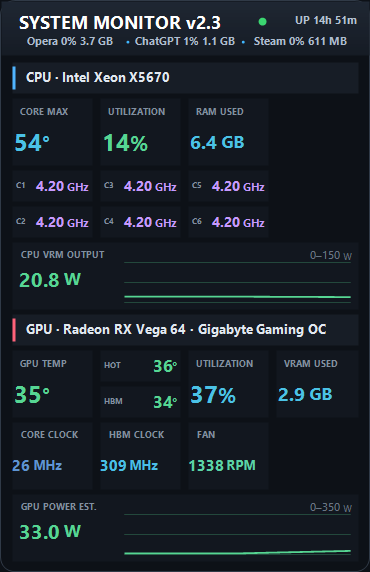
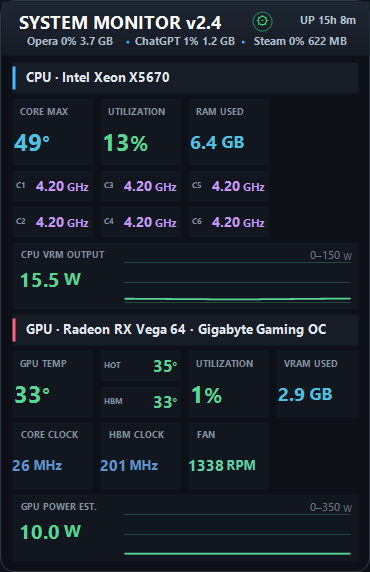
Release SystemMonitorWidget v2.4

diff --git a/src/WidgetFormV2.cs b/src/WidgetFormV2.cs
@@ -26,7 +26,8 @@ namespace VegaDesktopWidget
         private readonly WidgetComponents components = new WidgetComponents();
         private double ramUsed, ramTotal; private bool ramAvailable;
         private string status = "Starting";
-        private bool dragging; private Point dragStart; private ContextMenuStrip menu; private ToolStripMenuItem topmostItem, scaleItem, gridItem, processItem;
+        private ContextMenuStrip menu; private ToolStripMenuItem topmostItem, scaleItem, gridItem, processItem;
+        private const int WmNcHitTest = 0x0084, HtClient = 1, HtTransparent = -1;
 
         private float UiScale { get { if (config.UiScaleMode == 75) return 0.75f; if (config.UiScaleMode == 67) return 2f / 3f; if (config.UiScaleMode == 50) return 0.5f; if (config.UiScaleMode == 33) return 1f / 3f; if (config.UiScaleMode == 25) return 0.25f; return 1f; } }
         private int CanvasWidth { get { return config.Width; } }
@@ -40,7 +41,7 @@ namespace VegaDesktopWidget
             TopMost = config.AlwaysOnTop; Opacity = config.OpacityPercent / 100.0;
             BuildMenu(); timer.Interval = config.RefreshMilliseconds; timer.Tick += delegate { RefreshSensors(); }; timer.Start();
             Shown += delegate { RefreshSensors(); }; FormClosing += delegate { config.Left = Left; config.Top = Top; config.Save(); };
-            MouseDown += DragMouseDown; MouseMove += DragMouseMove; MouseUp += DragMouseUp; DoubleClick += delegate { ShowSettings(); };
+            MouseDown += GearMouseDown;
             if (config.LaunchHWiNFO) LaunchHWiNFO();
         }
 
@@ -53,7 +54,7 @@ namespace VegaDesktopWidget
             scaleItem = new ToolStripMenuItem("UI scale"); AddScaleMenuItem("100% (1/1)", 100); AddScaleMenuItem("75% (3/4)", 75); AddScaleMenuItem("67% (2/3)", 67); AddScaleMenuItem("50% (1/2)", 50); AddScaleMenuItem("33% (1/3)", 33); AddScaleMenuItem("25% (1/4)", 25); UpdateScaleMenu(); menu.Items.Add(scaleItem);
             processItem = new ToolStripMenuItem("Header processes"); AddProcessMenuItem("No", 0); AddProcessMenuItem("Top CPU", 1); AddProcessMenuItem("Top RAM", 2); UpdateProcessMenu(); menu.Items.Add(processItem);
             menu.Items.Add("Start HWiNFO", null, delegate { LaunchHWiNFO(); }); menu.Items.Add("Reset position", null, delegate { Location = new Point(60, 60); });
-            menu.Items.Add(new ToolStripSeparator()); menu.Items.Add("Exit", null, delegate { Close(); }); ContextMenuStrip = menu;
+            menu.Items.Add(new ToolStripSeparator()); menu.Items.Add("Exit", null, delegate { Close(); });
         }
 
         private void AddGridMenuItem(string text, int columns) { ToolStripMenuItem item = new ToolStripMenuItem(text); item.Tag = columns; item.Click += delegate { SetGridColumns(columns); }; gridItem.DropDownItems.Add(item); }
@@ -107,7 +108,7 @@ namespace VegaDesktopWidget
             base.OnPaint(e); Graphics g = e.Graphics; g.SmoothingMode = SmoothingMode.AntiAlias; g.TextRenderingHint = System.Drawing.Text.TextRenderingHint.ClearTypeGridFit; g.ScaleTransform(UiScale, UiScale);
             Rectangle outer = new Rectangle(0, 0, CanvasWidth - 1, LogicalHeight - 1);
             using (GraphicsPath path = Rounded(outer, 14)) { using (SolidBrush b = new SolidBrush(Color.FromArgb(13, 17, 23))) g.FillPath(b, path); using (Pen p = new Pen(Color.FromArgb(48, 58, 71))) g.DrawPath(p, path); }
-            DrawHeader(g); DrawDashboard(g);
+            DrawHeader(g); DrawDashboard(g); g.ResetTransform(); DrawGearButton(g);
             using (GraphicsPath physicalPath = Rounded(new Rectangle(0, 0, Width - 1, Height - 1), Math.Max(2, (int)Math.Round(14 * UiScale)))) Region = new Region(physicalPath);
         }
 
@@ -115,7 +116,7 @@ namespace VegaDesktopWidget
         {
             using (LinearGradientBrush b = new LinearGradientBrush(new Rectangle(1, 1, CanvasWidth - 2, 54), Color.FromArgb(31, 39, 51), Color.FromArgb(21, 27, 36), 90f)) g.FillRectangle(b, 1, 1, CanvasWidth - 2, 54);
             DrawTextFit(g, config.HeaderTitle, 13.5f, 9f, FontStyle.Bold, Color.White, new RectangleF(16, 10, CanvasWidth - 150, 24), StringAlignment.Near);
-            bool live = readings.Count > 0; using (SolidBrush dot = new SolidBrush(live ? Color.FromArgb(59, 214, 113) : Color.FromArgb(255, 184, 77))) g.FillEllipse(dot, CanvasWidth - 112, 17, 8, 8);
+
             DrawText(g, FormatSystemUptime(), 8, FontStyle.Bold, Color.FromArgb(180, 194, 210), new RectangleF(CanvasWidth - 98, 12, 86, 18), StringAlignment.Far);
             DrawProcessStrip(g, new RectangleF(12, 34, CanvasWidth - 24, 14));
         }
@@ -164,6 +165,7 @@ namespace VegaDesktopWidget
                 Rectangle r = ItemRectangle(item);
                 if (r.Width <= 0 || r.Height <= 0) continue;
                 if (item.BoxType == DashboardBoxType.Section) { DrawSection(g, r, item); continue; }
+                float valueFontScale = Math.Max(0.6f, Math.Min(1.6f, item.ValueFontPercent / 100f));
                 SensorReading reading = Resolve(item); double? raw = ItemValue(item);
                 Color color = raw.HasValue ? item.ColorFor(raw.Value) : Color.FromArgb(85, 96, 110);
                 string value = item.SensorKey == "__RAM_USED__" ? (ramAvailable ? SensorValueFormatter.FormatValue(ramUsed, "GB", item.ValueDecimals, item.ShowUnit) : "—") : SensorValueFormatter.FormatReading(reading, item.ValueDecimals, item.ShowUnit);
@@ -172,16 +174,16 @@ namespace VegaDesktopWidget
                 {
                     MetricExtrema range = GetExtrema(item.Id);
                     string max = FormatExtrema(item, reading, range, true), min = FormatExtrema(item, reading, range, false);
-                    components.DrawBigMetric(g, r, label, value, max, min, color, item.ShowExtrema);
+                    components.DrawBigMetric(g, r, label, value, max, min, color, item.ShowExtrema, valueFontScale);
                 }
-                else if (item.BoxType == DashboardBoxType.Horizontal) components.DrawHorizontalSpec(g, r, label, value, color);
-                else if (item.BoxType == DashboardBoxType.Vertical) components.DrawVerticalSpec(g, r, label, value, color);
+                else if (item.BoxType == DashboardBoxType.Horizontal) components.DrawHorizontalSpec(g, r, label, value, color, valueFontScale);
+                else if (item.BoxType == DashboardBoxType.Vertical) components.DrawVerticalSpec(g, r, label, value, color, valueFontScale);
                 else if (item.BoxType == DashboardBoxType.Graph)
                 {
                     List<double> values = null; if (config.ShowGraphs) history.TryGetValue(item.Id, out values);
                     string unit = !item.ShowUnit || reading == null || reading.Unit == null ? "" : reading.Unit.Trim();
                     string range = FormatRange(item.GraphMinimum, item.GraphMaximum, unit);
-                    components.DrawGraphBox(g, r, label, value, range, color, values, item.GraphMinimum, item.GraphMaximum);
+                    components.DrawGraphBox(g, r, label, value, range, color, values, item.GraphMinimum, item.GraphMaximum, valueFontScale);
                 }
             }
         }
@@ -227,9 +229,37 @@ namespace VegaDesktopWidget
             { sf.Alignment = align; sf.LineAlignment = StringAlignment.Center; sf.Trimming = StringTrimming.None; sf.FormatFlags = StringFormatFlags.NoWrap; g.DrawString(text ?? "", f, b, area, sf); }
         }
         private static GraphicsPath Rounded(Rectangle r, int radius) { GraphicsPath p = new GraphicsPath(); int d = radius * 2; p.AddArc(r.X, r.Y, d, d, 180, 90); p.AddArc(r.Right - d, r.Y, d, d, 270, 90); p.AddArc(r.Right - d, r.Bottom - d, d, d, 0, 90); p.AddArc(r.X, r.Bottom - d, d, d, 90, 90); p.CloseFigure(); return p; }
-        private void DragMouseDown(object sender, MouseEventArgs e) { if (e.Button == MouseButtons.Left) { dragging = true; dragStart = e.Location; } }
-        private void DragMouseMove(object sender, MouseEventArgs e) { if (dragging) Location = new Point(Left + e.X - dragStart.X, Top + e.Y - dragStart.Y); }
-        private void DragMouseUp(object sender, MouseEventArgs e) { if (!dragging) return; dragging = false; config.Left = Left; config.Top = Top; config.Save(); }
+        private Rectangle GearBounds
+        {
+            get
+            {
+                int size = Math.Max(14, (int)Math.Round(20 * UiScale));
+                int centerX = (int)Math.Round((CanvasWidth - 108) * UiScale), centerY = Math.Max(size / 2 + 2, (int)Math.Round(21 * UiScale));
+                return new Rectangle(centerX - size / 2, centerY - size / 2, size, size);
+            }
+        }
+        private void DrawGearButton(Graphics g)
+        {
+            Rectangle r = GearBounds; bool live = readings.Count > 0; Color accent = live ? Color.FromArgb(59, 214, 113) : Color.FromArgb(255, 184, 77);
+            using (SolidBrush background = new SolidBrush(Color.FromArgb(175, 23, 30, 39))) g.FillEllipse(background, r);
+            using (Pen border = new Pen(Color.FromArgb(155, accent), 1f)) g.DrawEllipse(border, r.X + 0.5f, r.Y + 0.5f, r.Width - 1f, r.Height - 1f);
+            using (Font font = new Font("Segoe UI Symbol", Math.Max(8f, 11f * UiScale), FontStyle.Regular, GraphicsUnit.Point))
+            using (SolidBrush brush = new SolidBrush(accent))
+            using (StringFormat format = new StringFormat()) { format.Alignment = StringAlignment.Center; format.LineAlignment = StringAlignment.Center; g.DrawString("\u2699", font, brush, r, format); }
+        }
+        private void GearMouseDown(object sender, MouseEventArgs e)
+        {
+            if ((e.Button == MouseButtons.Left || e.Button == MouseButtons.Right) && GearBounds.Contains(e.Location)) menu.Show(this, new Point(GearBounds.Left, GearBounds.Bottom + 2));
+        }
+        protected override void WndProc(ref Message m)
+        {
+            if (m.Msg == WmNcHitTest)
+            {
+                int packed = unchecked((int)(long)m.LParam); Point screen = new Point((short)(packed & 0xffff), (short)((packed >> 16) & 0xffff)); Point client = PointToClient(screen);
+                m.Result = GearBounds.Contains(client) ? (IntPtr)HtClient : (IntPtr)HtTransparent; return;
+            }
+            base.WndProc(ref m);
+        }
         private Point ClampLocation(Point p) { Rectangle work = Screen.PrimaryScreen.WorkingArea; return new Point(Math.Max(work.Left, Math.Min(work.Right - Width, p.X)), Math.Max(work.Top, Math.Min(work.Bottom - Height, p.Y))); }
         private void ShowSettings() { using (SettingsForm form = new SettingsForm(config, readings)) { if (form.ShowDialog(this) != DialogResult.OK) return; config = form.Result; ApplyWidgetSize(); Location = ClampLocation(Location); TopMost = config.AlwaysOnTop; Opacity = config.OpacityPercent / 100.0; timer.Interval = config.RefreshMilliseconds; topmostItem.Checked = config.AlwaysOnTop; UpdateGridMenu(); UpdateScaleMenu(); config.Save(); RefreshSensors(); } }
         private void LaunchHWiNFO() { try { if (Process.GetProcessesByName("HWiNFO64").Length > 0) return; string path = @"C:\Program Files\HWiNFO64\HWiNFO64.EXE"; if (File.Exists(path)) Process.Start(path); else { status = "HWiNFO64 was not found"; Invalidate(); } } catch { status = "Could not start HWiNFO"; Invalidate(); } }

diff --git a/src/DashboardEditor.cs b/src/DashboardEditor.cs
@@ -237,7 +237,7 @@ namespace VegaDesktopWidget
     {
         private readonly WidgetConfig config; private readonly List<SensorReading> readings; private readonly List<SensorChoice> choices;
         private readonly DashboardCanvas canvas = new DashboardCanvas(); private readonly SplitContainer split = new SplitContainer(); private readonly ComboBox layoutChoice = new ComboBox(), sensorChoice = new ComboBox(), typeChoice = new ComboBox();
-        private readonly TextBox displayName = new TextBox(); private readonly NumericUpDown dashboardRows = Number(4, 30, 14), row = Number(1, 30, 1), column = Number(1, 4, 1), columnSpan = Number(1, 4, 1), graphMin = Number(-100000, 100000, 0), graphMax = Number(-100000, 100000, 100);
+        private readonly TextBox displayName = new TextBox(); private readonly NumericUpDown dashboardRows = Number(4, 30, 14), row = Number(1, 30, 1), column = Number(1, 4, 1), columnSpan = Number(1, 4, 1), graphMin = Number(-100000, 100000, 0), graphMax = Number(-100000, 100000, 100), valueFontPercent = Number(60, 160, 100);
         private readonly CheckBox extrema = new CheckBox(), showUnit = new CheckBox(); private readonly NumericUpDown[] thresholds = new NumericUpDown[4]; private readonly Button[] colorButtons = new Button[5];
         private readonly ComboBox valueDecimals = new ComboBox(); private readonly Label formatPreview = new Label(), placementStatus = new Label(); private bool loading; private int editorColumns = 4;
 
@@ -283,6 +283,7 @@ namespace VegaDesktopWidget
             typeChoice.DropDownStyle = ComboBoxStyle.DropDownList; typeChoice.Items.AddRange(new object[] { "Big metric", "Horizontal spec", "Vertical spec", "Graph", "Section heading" }); AddRow(table, "Box type", typeChoice);
             Heading(table, "VALUE FORMAT"); valueDecimals.DropDownStyle = ComboBoxStyle.DropDownList; valueDecimals.Items.AddRange(new object[] { "Automatic", "0 decimals", "1 decimal", "2 decimals" }); AddRow(table, "Decimals", valueDecimals);
             showUnit.Text = "Show sensor unit"; showUnit.AutoSize = true; AddRow(table, "Unit", showUnit);
+            valueFontPercent.Increment = 5; AddRow(table, "Value font (%)", valueFontPercent);
             formatPreview.AutoSize = true; formatPreview.Font = new Font("Segoe UI", 10f, FontStyle.Bold); formatPreview.ForeColor = Color.FromArgb(45, 112, 190); AddRow(table, "Preview", formatPreview);
             Heading(table, "POSITION & SIZE"); AddRow(table, "Column", column); AddRow(table, "Half-row", row); AddRow(table, "Width (cells)", columnSpan);
             extrema.Text = "Show minimum / maximum"; extrema.AutoSize = true; AddRow(table, "", extrema);
@@ -301,7 +302,7 @@ namespace VegaDesktopWidget
             displayName.TextChanged += delegate { PropertyChanged(); }; sensorChoice.SelectedIndexChanged += delegate { PropertyChanged(); }; typeChoice.SelectedIndexChanged += delegate { TypeChanged(); };
             row.ValueChanged += delegate { PositionChanged(); }; column.ValueChanged += delegate { PositionChanged(); }; columnSpan.ValueChanged += delegate { PositionChanged(); };
             extrema.CheckedChanged += delegate { PropertyChanged(); }; graphMin.ValueChanged += delegate { PropertyChanged(); }; graphMax.ValueChanged += delegate { PropertyChanged(); };
-            valueDecimals.SelectedIndexChanged += delegate { PropertyChanged(); }; showUnit.CheckedChanged += delegate { PropertyChanged(); };
+            valueDecimals.SelectedIndexChanged += delegate { PropertyChanged(); }; showUnit.CheckedChanged += delegate { PropertyChanged(); }; valueFontPercent.ValueChanged += delegate { PropertyChanged(); };
             return panel;
         }
 
@@ -352,13 +353,13 @@ namespace VegaDesktopWidget
         private void LoadSelected()
         {
             loading = true; DashboardItem item = canvas.SelectedItem; bool enabled = item != null;
-            displayName.Enabled = sensorChoice.Enabled = typeChoice.Enabled = row.Enabled = column.Enabled = columnSpan.Enabled = extrema.Enabled = graphMin.Enabled = graphMax.Enabled = valueDecimals.Enabled = showUnit.Enabled = enabled;
+            displayName.Enabled = sensorChoice.Enabled = typeChoice.Enabled = row.Enabled = column.Enabled = columnSpan.Enabled = extrema.Enabled = graphMin.Enabled = graphMax.Enabled = valueDecimals.Enabled = showUnit.Enabled = valueFontPercent.Enabled = enabled;
             foreach (NumericUpDown threshold in thresholds) if (threshold != null) threshold.Enabled = enabled;
             foreach (Button button in colorButtons) if (button != null) button.Enabled = enabled;
             if (!enabled) { displayName.Text = ""; formatPreview.Text = "—"; placementStatus.Text = "Select a component or click + Add."; loading = false; return; }
             displayName.Text = item.DisplayName; typeChoice.SelectedIndex = (int)item.BoxType; row.Value = Clamp(row, item.Row + 1); column.Value = Clamp(column, item.Column + 1); columnSpan.Value = Clamp(columnSpan, item.ColumnSpan); extrema.Checked = item.ShowExtrema;
             graphMin.Value = Clamp(graphMin, (decimal)item.GraphMinimum); graphMax.Value = Clamp(graphMax, (decimal)item.GraphMaximum);
-            valueDecimals.SelectedIndex = Math.Max(0, Math.Min(3, item.ValueDecimals + 1)); showUnit.Checked = item.ShowUnit;
+            valueDecimals.SelectedIndex = Math.Max(0, Math.Min(3, item.ValueDecimals + 1)); showUnit.Checked = item.ShowUnit; valueFontPercent.Value = Clamp(valueFontPercent, item.ValueFontPercent);
             SelectSensor(item); for (int i = 0; i < 4; i++) thresholds[i].Value = Clamp(thresholds[i], (decimal)item.Thresholds[i]);
             for (int i = 0; i < 5; i++) SetColorButton(i, Color.FromArgb(item.Colors[i]));
             UpdateVisibility(item); UpdateFormatPreview(item); placementStatus.Text = ""; loading = false;
@@ -398,7 +399,7 @@ namespace VegaDesktopWidget
             for (int i = 0; i < 4; i++) item.Thresholds[i] = (double)thresholds[i].Value;
             SensorChoice choice = sensorChoice.SelectedItem as SensorChoice;
             if (choice != null && item.BoxType != DashboardBoxType.Section) { item.SensorKey = choice.Key; item.SensorLabel = choice.Label; item.SensorName = choice.SensorName; }
-            item.ValueDecimals = Math.Max(-1, valueDecimals.SelectedIndex - 1); item.ShowUnit = showUnit.Checked; UpdateFormatPreview(item);
+            item.ValueDecimals = Math.Max(-1, valueDecimals.SelectedIndex - 1); item.ShowUnit = showUnit.Checked; item.ValueFontPercent = (int)valueFontPercent.Value; UpdateFormatPreview(item);
             canvas.Invalidate();
         }
 
@@ -409,12 +410,13 @@ namespace VegaDesktopWidget
 
         private void UpdateVisibility(DashboardItem item)
         {
-            bool section = item.BoxType == DashboardBoxType.Section, graph = item.BoxType == DashboardBoxType.Graph; graphMin.Enabled = graph; graphMax.Enabled = graph; columnSpan.Enabled = graph || section; extrema.Enabled = item.BoxType == DashboardBoxType.Big; sensorChoice.Enabled = valueDecimals.Enabled = showUnit.Enabled = !section;
+            bool section = item.BoxType == DashboardBoxType.Section, graph = item.BoxType == DashboardBoxType.Graph; graphMin.Enabled = graph; graphMax.Enabled = graph; columnSpan.Enabled = graph || section; extrema.Enabled = item.BoxType == DashboardBoxType.Big; sensorChoice.Enabled = valueDecimals.Enabled = showUnit.Enabled = valueFontPercent.Enabled = !section;
         }
 
         private void UpdateFormatPreview(DashboardItem item)
         {
-            if (item == null || item.BoxType == DashboardBoxType.Section) { formatPreview.Text = "—"; return; }
+            if (item == null || item.BoxType == DashboardBoxType.Section) { formatPreview.Text = "—"; formatPreview.Font = new Font("Segoe UI", 10f, FontStyle.Bold); return; }
+            formatPreview.Font = new Font("Segoe UI", Math.Max(6f, Math.Min(16f, 10f * item.ValueFontPercent / 100f)), FontStyle.Bold);
             if (item.SensorKey == "__RAM_USED__") { formatPreview.Text = SensorValueFormatter.FormatValue(6.3, "GB", item.ValueDecimals, item.ShowUnit); return; }
             SensorChoice choice = sensorChoice.SelectedItem as SensorChoice; formatPreview.Text = SensorValueFormatter.FormatReading(choice == null ? null : choice.Reading, item.ValueDecimals, item.ShowUnit);
         }

diff --git a/src/WidgetComponents.cs b/src/WidgetComponents.cs
@@ -63,42 +63,42 @@ namespace VegaDesktopWidget
         private static readonly Color LabelColor = Color.FromArgb(129, 143, 160);
         private static readonly Color SecondaryColor = Color.FromArgb(105, 117, 132);
 
-        public void DrawBigMetric(Graphics g, Rectangle r, string label, string current, string maximum, string minimum, Color accent, bool showExtrema)
+        public void DrawBigMetric(Graphics g, Rectangle r, string label, string current, string maximum, string minimum, Color accent, bool showExtrema, float valueFontScale)
         {
             FillBox(g, r);
             if (showExtrema)
             {
                 DrawText(g, label, 6.7f, FontStyle.Bold, LabelColor, new RectangleF(r.X + 7, r.Y + 4, r.Width - 14, 14), StringAlignment.Near);
-                DrawValueText(g, current, current.Length > 7 ? 11.5f : current.Length > 4 ? 12.5f : 17f, FontStyle.Bold, accent, new RectangleF(r.X + 3, r.Y + 21, r.Width - 6, r.Height - 25), StringAlignment.Near);
+                DrawValueText(g, current, (current.Length > 7 ? 11.5f : current.Length > 4 ? 12.5f : 17f) * valueFontScale, FontStyle.Bold, accent, new RectangleF(r.X + 3, r.Y + 21, r.Width - 6, r.Height - 25), StringAlignment.Near);
                 DrawValueText(g, "↑ " + maximum, 9f, FontStyle.Bold, SecondaryColor, new RectangleF(r.X + 3, r.Y + 21, r.Width - 6, 13), StringAlignment.Far);
                 DrawValueText(g, "↓ " + minimum, 9f, FontStyle.Bold, SecondaryColor, new RectangleF(r.X + 3, r.Y + 36, r.Width - 6, 13), StringAlignment.Far);
             }
             else
             {
                 DrawText(g, label, 6.7f, FontStyle.Bold, LabelColor, new RectangleF(r.X + 7, r.Y + 6, r.Width - 14, 15), StringAlignment.Near);
-                DrawValueText(g, current, current.Length > 7 ? 11.5f : current.Length > 4 ? 14.5f : 18f, FontStyle.Bold, accent, new RectangleF(r.X + 2, r.Y + 20, r.Width - 4, r.Height - 22), StringAlignment.Near);
+                DrawValueText(g, current, (current.Length > 7 ? 11.5f : current.Length > 4 ? 14.5f : 18f) * valueFontScale, FontStyle.Bold, accent, new RectangleF(r.X + 2, r.Y + 20, r.Width - 4, r.Height - 22), StringAlignment.Near);
             }
         }
-        public void DrawHorizontalSpec(Graphics g, Rectangle r, string label, string value, Color accent)
+        public void DrawHorizontalSpec(Graphics g, Rectangle r, string label, string value, Color accent, float valueFontScale)
         {
             FillBox(g, r);
             DrawText(g, label, 6.2f, FontStyle.Bold, LabelColor, new RectangleF(r.X + 3, r.Y + 2, r.Width - 6, r.Height - 4), StringAlignment.Near);
-            DrawValueText(g, value, value.Length > 4 ? 10.5f : 12.5f, FontStyle.Bold, accent, new RectangleF(r.X + 3, r.Y + 2, r.Width - 6, r.Height - 4), StringAlignment.Far);
+            DrawValueText(g, value, (value.Length > 4 ? 10.5f : 12.5f) * valueFontScale, FontStyle.Bold, accent, new RectangleF(r.X + 3, r.Y + 2, r.Width - 6, r.Height - 4), StringAlignment.Far);
         }
 
-        public void DrawVerticalSpec(Graphics g, Rectangle r, string label, string value, Color accent)
+        public void DrawVerticalSpec(Graphics g, Rectangle r, string label, string value, Color accent, float valueFontScale)
         {
             FillBox(g, r);
             DrawText(g, label, 7f, FontStyle.Bold, LabelColor, new RectangleF(r.X + 7, r.Y + 6, r.Width - 14, 14), StringAlignment.Near);
-            DrawValueText(g, value, value.Length > 5 ? 11.5f : 14.5f, FontStyle.Bold, accent, new RectangleF(r.X, r.Y + 20, r.Width, r.Height - 23), StringAlignment.Near);
+            DrawValueText(g, value, (value.Length > 5 ? 11.5f : 14.5f) * valueFontScale, FontStyle.Bold, accent, new RectangleF(r.X, r.Y + 20, r.Width, r.Height - 23), StringAlignment.Near);
         }
 
-        public void DrawGraphBox(Graphics g, Rectangle r, string label, string current, string rangeText, Color accent, IList<double> values, double minimum, double maximum)
+        public void DrawGraphBox(Graphics g, Rectangle r, string label, string current, string rangeText, Color accent, IList<double> values, double minimum, double maximum, float valueFontScale)
         {
             FillBox(g, r);
             DrawText(g, label, 7f, FontStyle.Bold, LabelColor, new RectangleF(r.X + 7, r.Y + 5, 145, 15), StringAlignment.Near);
             DrawValueText(g, rangeText, 8.5f, FontStyle.Regular, SecondaryColor, new RectangleF(r.Right - 75, r.Y + 5, 68, 15), StringAlignment.Far);
-            DrawValueText(g, current, 15f, FontStyle.Bold, accent, new RectangleF(r.X + 7, r.Y + 21, 95, 28), StringAlignment.Near);
+            DrawValueText(g, current, 15f * valueFontScale, FontStyle.Bold, accent, new RectangleF(r.X + 7, r.Y + 21, 95, 28), StringAlignment.Near);
             DrawSpark(g, new Rectangle(r.X + 112, r.Y + 20, r.Width - 120, r.Height - 27), accent, values, minimum, maximum);
         }
 

diff --git a/src/DashboardModel.cs b/src/DashboardModel.cs
@@ -26,6 +26,7 @@ namespace VegaDesktopWidget
         public int[] Colors = ActivityColors();
         public int ValueDecimals = -1;
         public bool ShowUnit = true;
+        public int ValueFontPercent = 100;
 
         public DashboardItem Clone()
         {
@@ -56,7 +57,7 @@ namespace VegaDesktopWidget
                 Escape(Id), BoxType.ToString(), Escape(SensorKey), Escape(SensorLabel), Escape(SensorName), Escape(DisplayName),
                 Column.ToString(CultureInfo.InvariantCulture), Row.ToString(CultureInfo.InvariantCulture), ColumnSpan.ToString(CultureInfo.InvariantCulture), RowSpan.ToString(CultureInfo.InvariantCulture),
                 ShowExtrema.ToString(), GraphMinimum.ToString("R", CultureInfo.InvariantCulture), GraphMaximum.ToString("R", CultureInfo.InvariantCulture),
-                JoinDoubles(Thresholds), JoinInts(Colors), ValueDecimals.ToString(CultureInfo.InvariantCulture), ShowUnit.ToString()
+                JoinDoubles(Thresholds), JoinInts(Colors), ValueDecimals.ToString(CultureInfo.InvariantCulture), ShowUnit.ToString(), ValueFontPercent.ToString(CultureInfo.InvariantCulture)
             });
         }
 
@@ -80,6 +81,7 @@ namespace VegaDesktopWidget
             item.Colors = ParseInts(p[14], ActivityColors());
             if (p.Length > 15 && Int32.TryParse(p[15], NumberStyles.Integer, CultureInfo.InvariantCulture, out n)) item.ValueDecimals = Math.Max(-1, Math.Min(2, n));
             if (p.Length > 16 && Boolean.TryParse(p[16], out flag)) item.ShowUnit = flag;
+            if (p.Length > 17 && Int32.TryParse(p[17], NumberStyles.Integer, CultureInfo.InvariantCulture, out n)) item.ValueFontPercent = Math.Max(60, Math.Min(160, n));
             if (item.Id.Length == 0) item.Id = Guid.NewGuid().ToString("N");
             return item;
         }

diff --git a/src/Properties/AssemblyInfo.cs b/src/Properties/AssemblyInfo.cs
@@ -4,5 +4,5 @@ using System.Reflection;
 [assembly: AssemblyDescription("Modular HWiNFO desktop hardware monitor")]
 [assembly: AssemblyCompany("")]
 [assembly: AssemblyProduct("System Monitor Widget")]
-[assembly: AssemblyVersion("2.3.0.0")]
-[assembly: AssemblyFileVersion("2.3.0.0")]
+[assembly: AssemblyVersion("2.4.0.0")]
+[assembly: AssemblyFileVersion("2.4.0.0")]

diff --git a/README.md b/README.md
@@ -17,12 +17,13 @@ A lightweight, modular Windows desktop hardware monitor powered by HWiNFO shared
 - Fully configurable 3-column and 4-column dashboards.
 - Optional top-three process strip: hide it, rank by CPU, or rank by RAM while showing aggregated CPU and memory usage.
 - Editable, version-aware header title with compact Windows system uptime.
+- The dashboard is click-through except for a compact gear button that opens the control menu.
 - Search and add every sensor exposed through HWiNFO shared memory by label, device, unit, or sensor type.
 - Five reusable component types: Big metric, Horizontal spec, Vertical spec, Graph, and Section.
 - Drag-and-drop placement with grid snapping and overlap prevention.
 - Precise column, half-row, width, and dashboard-height controls.
 - Custom display name for every component.
-- Per-component value formatting with automatic, 0-, 1-, or 2-decimal precision, unit visibility, and a live preview.
+- Per-component value formatting with automatic, 0-, 1-, or 2-decimal precision, unit visibility, a 60–160% value-font control, and a live preview.
 - Five colors and four change thresholds, configured independently per component.
 - Fixed minimum and maximum for every graph.
 - Optional recorded minimum and maximum on Big metric components.
@@ -41,7 +42,7 @@ HWiNFO is a separate application and is not bundled with this repository or its 
 
 ## Dashboard workflow
 
-1. Open **Configure dashboard** from the widget's right-click menu.
+1. Select the gear button in the header, then choose **Configure dashboard**.
 2. Choose the 3-column or 4-column dashboard.
 3. Select **Add**, choose a sensor, and choose a component type.
 4. Drag the component to a free grid position, or enter its exact position in the inspector.
@@ -56,7 +57,7 @@ Run PowerShell from the repository root:
 .\build.ps1
 ```
 
-The compiled executable is written to `artifacts\SystemMonitorWidget-v2.3.exe`.
+The compiled executable is written to `artifacts\SystemMonitorWidget-v2.4.exe`.
 
 ## Local data
 
@@ -64,8 +65,8 @@ Widget settings stay in the current Windows user's local application-data folder
 
 ## Quick start
 
-1. Download `SystemMonitorWidget-v2.3.exe` from the [latest release](../../releases/latest).
+1. Download `SystemMonitorWidget-v2.4.exe` from the [latest release](../../releases/latest).
 2. Open HWiNFO64 settings and enable **Shared Memory Support**.
 3. Start HWiNFO sensors.
-4. Run `SystemMonitorWidget-v2.3.exe`.
-5. Right-click the widget and choose **Configure dashboard** to add sensors, select component types, arrange the grid, and customize colors.
+4. Run `SystemMonitorWidget-v2.4.exe`.
+5. Select the header gear and choose **Configure dashboard** to add sensors, select component types, arrange the grid, customize colors, and format each value.
